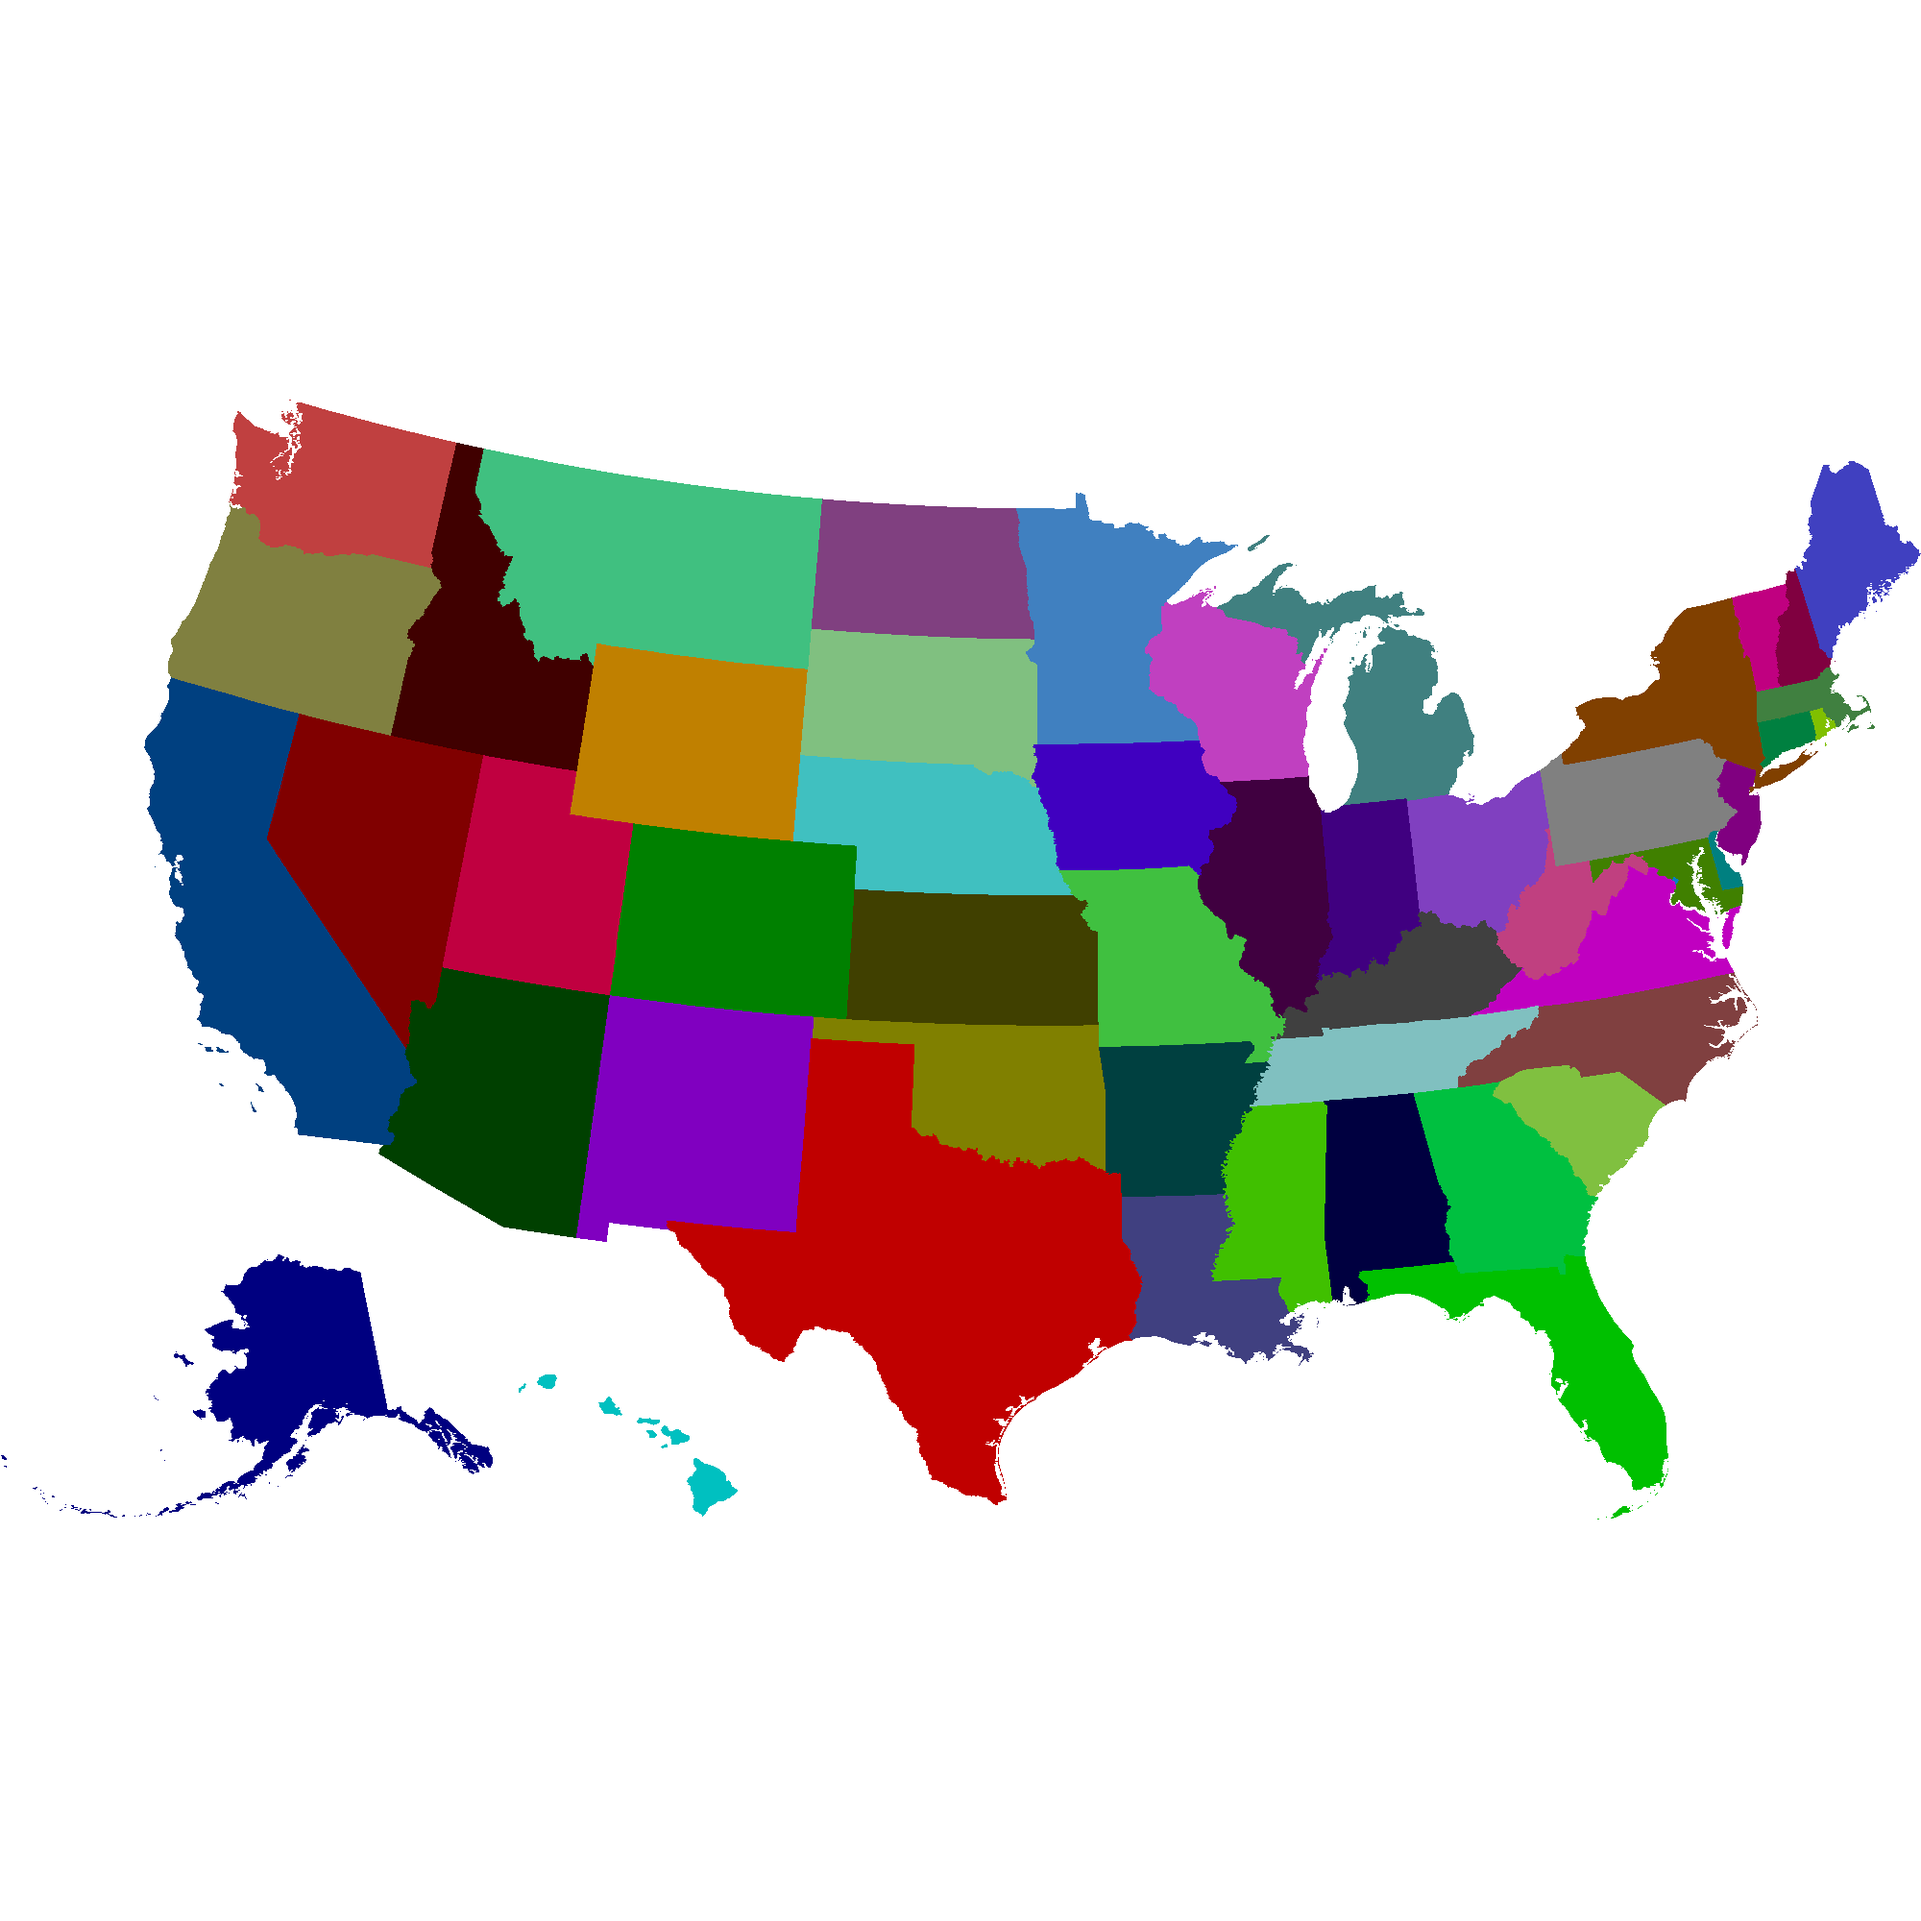
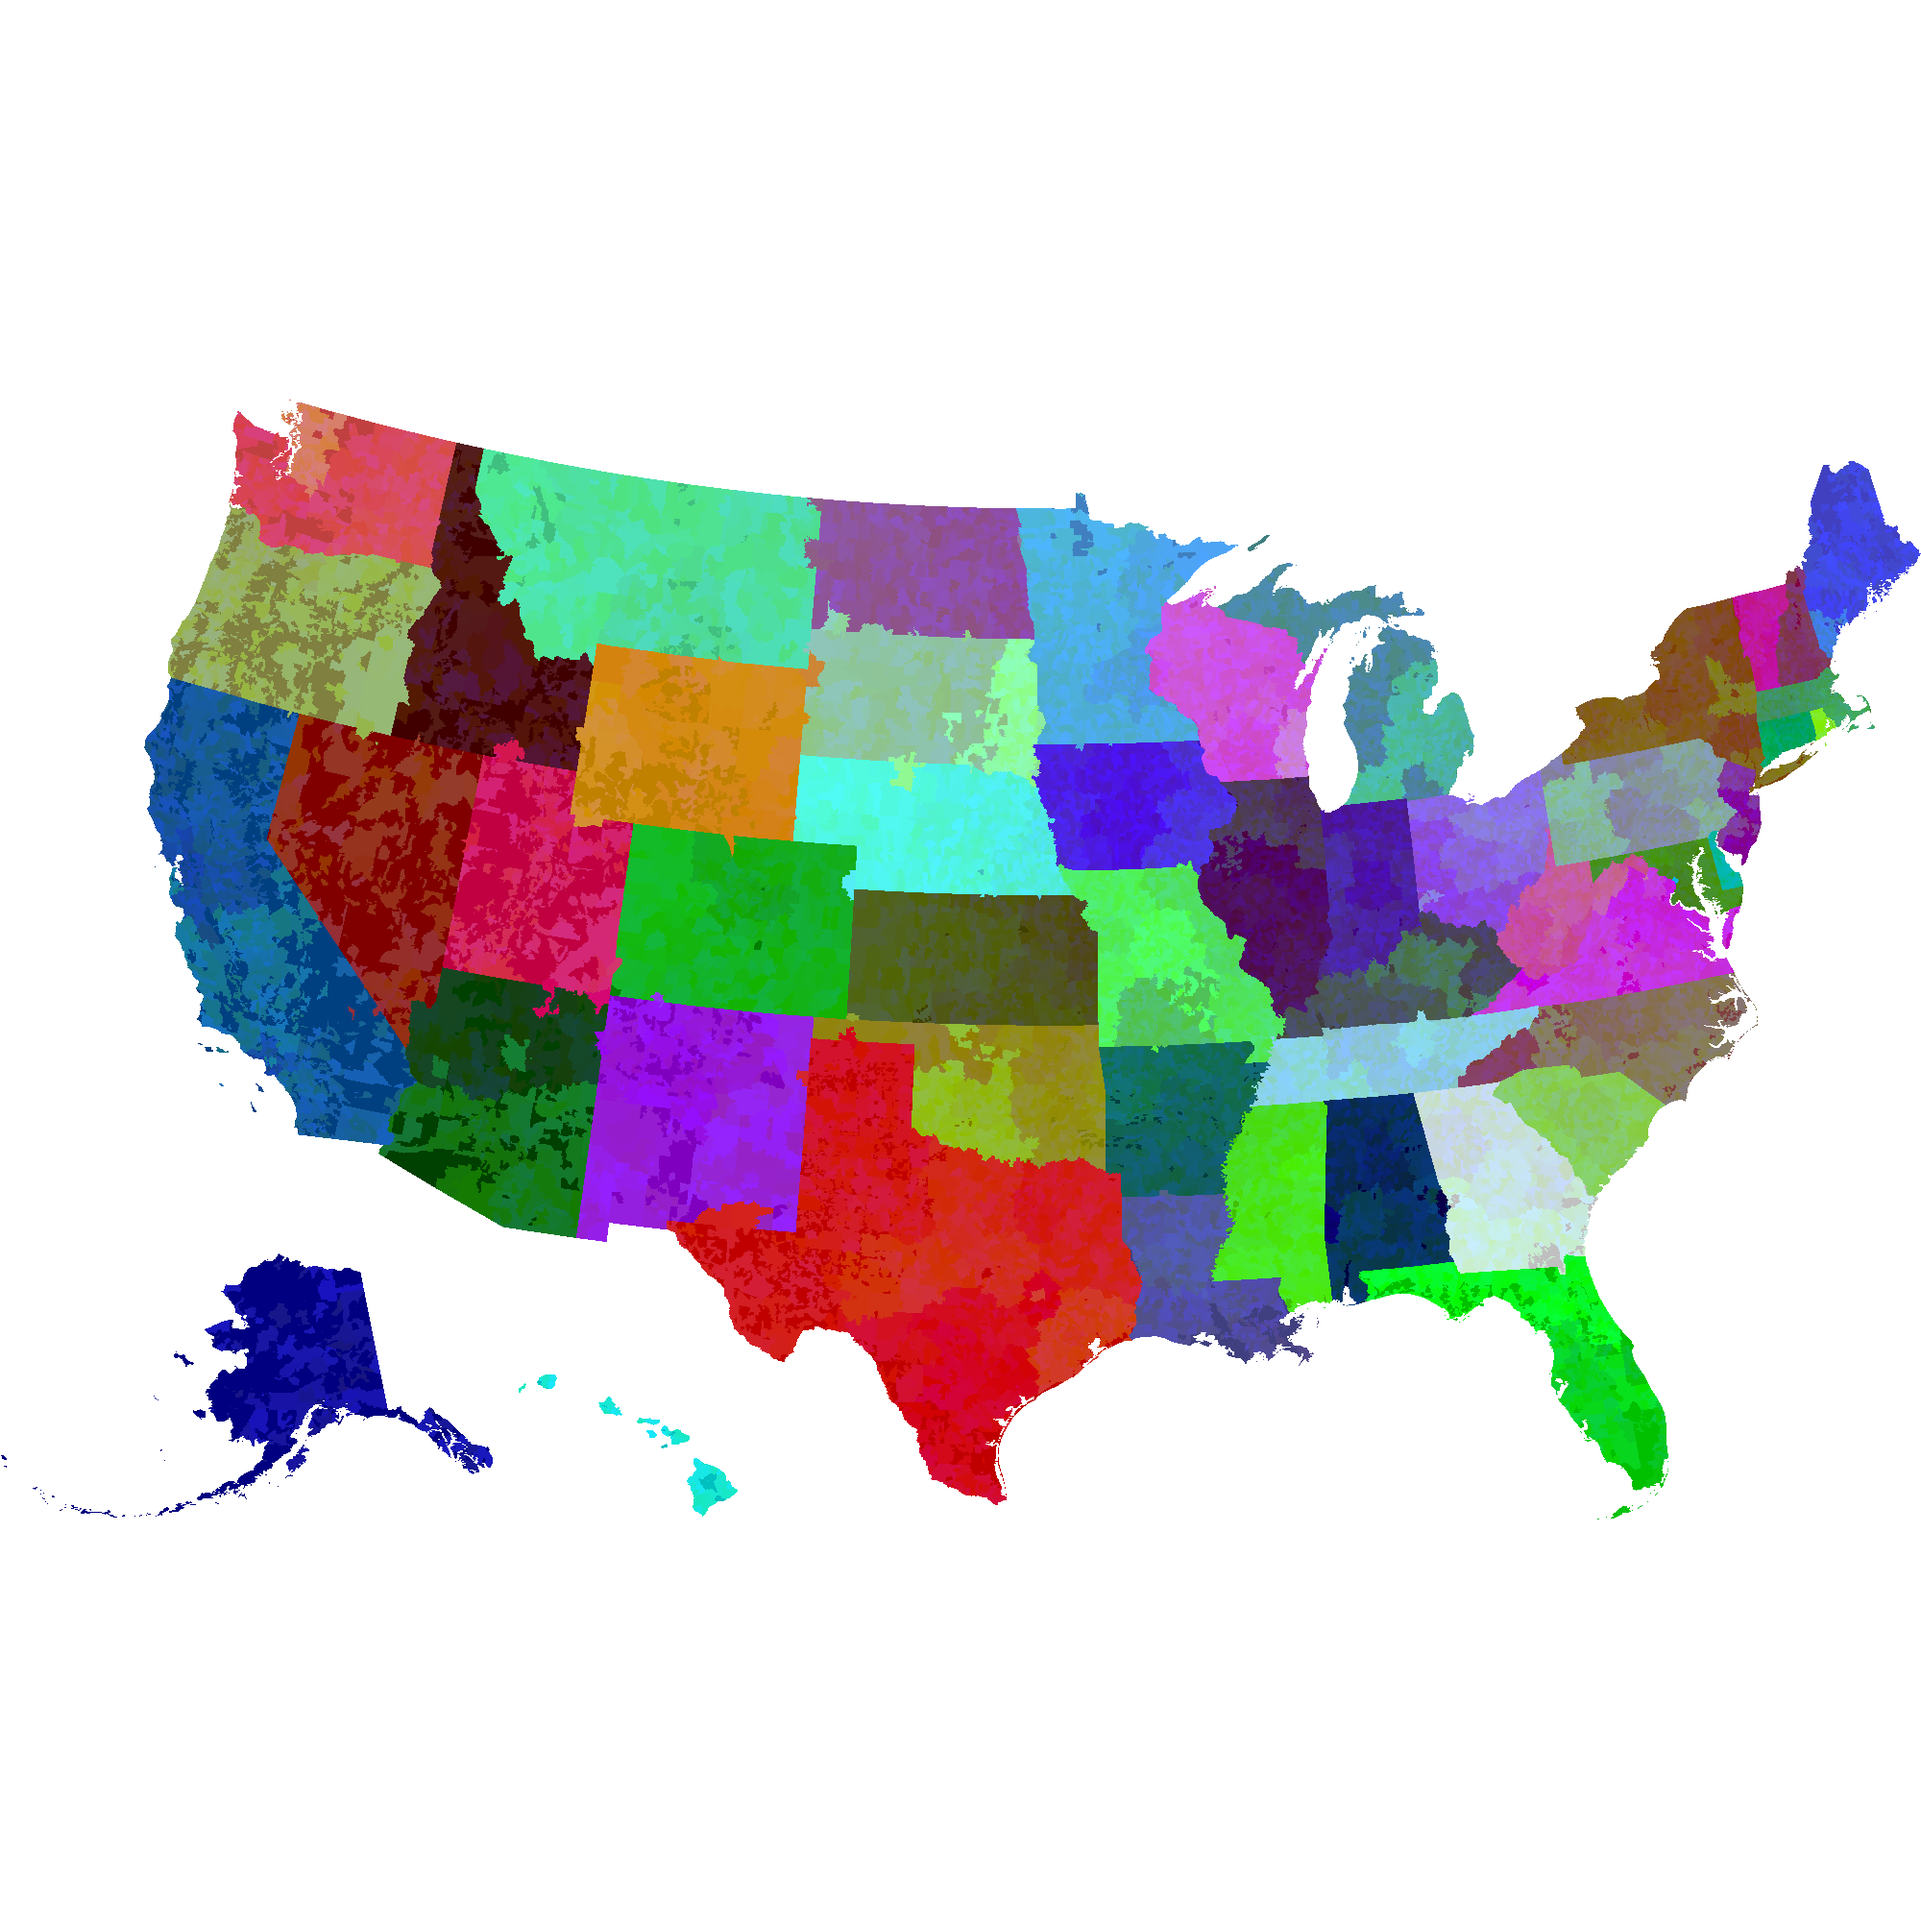
zipbitmap fixes

diff --git a/viewer/index.html b/viewer/index.html
@@ -82,7 +82,7 @@ function loadCanvas(){//onReady
 
 </script>
 <div style="margin: auto">
-  <img id="map" src="../zipbitmap/multi-state-zips-wrong.png" alt="" onload="loadCanvas()" />
+  <img id="map" src="../zipbitmap/multi-state-zips.png" alt="" onload="loadCanvas()" />
   <canvas id="canvas"></canvas>
   <pre id="message"></pre>
 </div>

diff --git a/zipbitmap/README.md b/zipbitmap/README.md
@@ -64,7 +64,7 @@ ndjson-map 'd[0].properties.STATEFP = d.length > 1 && d[1] != null ? d[1].proper
 ndjson-sort 'a.properties.AFFGEOID10 ? a.properties.AFFGEOID10.localeCompare(b.properties.AFFGEOID10) : -1' < temp2.ndjson > temp3.ndjson
 ```
 
-![Zip+State with higher precedence for states](./zip-bitmap2.png)
+![Zip+State with higher precedence for states](./zip-bitmap.png)
 
 ### Uh oh! multi-state zips!
 
@@ -83,7 +83,7 @@ cat data/census/zcta_county_rel_10.txt | cut -d ',' -f 1,2 | sort -u | cut -d ',
   * One way to do that is to update the ndjson file to split the zips at state lines, but I don't know how to do that (certainly not with my current toolset).
   * Another way to do that is to draw the zip codes in a translucent manner so that the underlying state shines through. The alpha calculation is reversible, so we should be able to recover both the zip and state from these translucent overlays.
 
-[![Zip+State with semi-opaque multi-state zips](./multi-state-zips-wrong.png)](/mkgeo-gallery/viewer/)
+[![Zip+State with semi-opaque multi-state zips](./multi-state-zips.png)](/mkgeo-gallery/viewer/)
 *click on the above map to see the zip code and state on mouseover*
 
 ### Why it's useful
